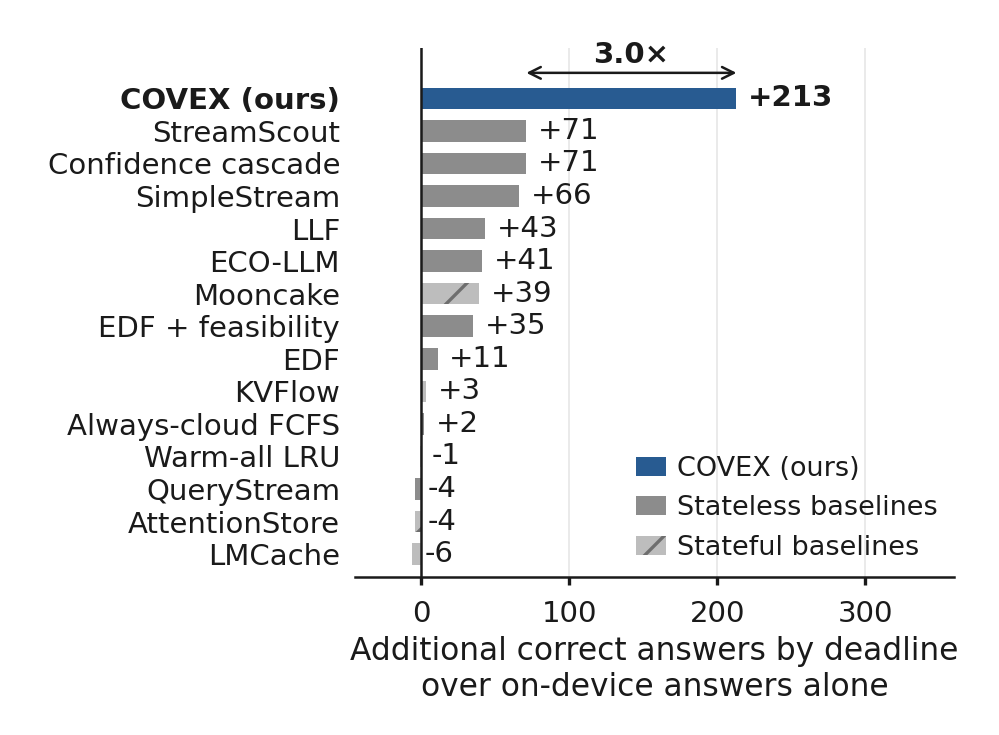
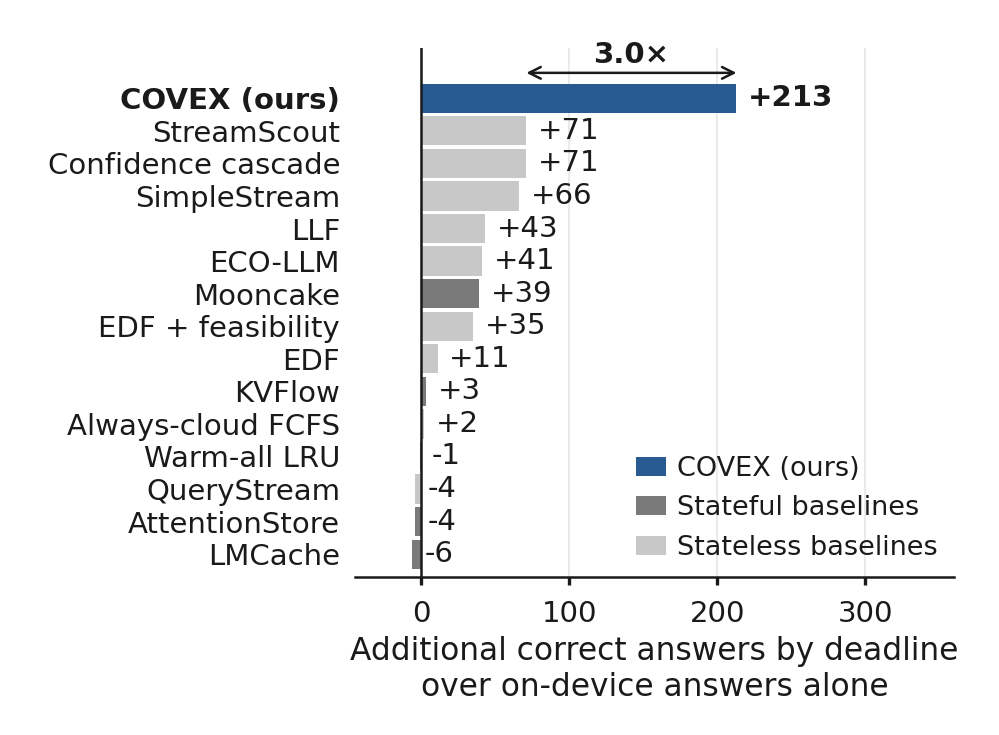
StudyFIG1: solid class fills, no hatch, vertical gap, legend order

diff --git a/experiments/analysis/figures/f01_intro_teaser.py b/experiments/analysis/figures/f01_intro_teaser.py
@@ -126,7 +126,7 @@ def render(out, rows, pooled_n):
             continue
     plt.rcParams["font.sans-serif"] = [fam]
     out["font"] = fam
-    C_COVEX, C_STATE, C_STATEFUL = "#285B91", "#8C8C8C", "#BDBDBD"
+    C_COVEX, C_STATE, C_STATEFUL = "#285B91", "#C8C8C8", "#7A7A7A"   # stateless light, stateful mid grey; no hatch
     INK, SEC, HATCH = "#1A1A1A", "#555555", "#6E6E6E"
     n = len(rows)
     fig = plt.figure(figsize=(3.33, 2.45))
@@ -134,12 +134,12 @@ def render(out, rows, pooled_n):
     ys = np.arange(n)[::-1]
     for y, r in zip(ys, rows):
         if r["class"] == "covex":
-            col, hatch, ec = C_COVEX, None, "none"
+            col, hatch, ec = C_COVEX, None, "white"
         elif r["class"] == "stateful":
-            col, hatch, ec = C_STATEFUL, "//", HATCH
+            col, hatch, ec = C_STATEFUL, None, "white"
         else:
-            col, hatch, ec = C_STATE, None, "none"
-        ax.barh(y, r["diff"], height=0.66, color=col, edgecolor=ec, hatch=hatch, linewidth=0.0)
+            col, hatch, ec = C_STATE, None, "white"
+        ax.barh(y, r["diff"], height=0.9, color=col, edgecolor="none", linewidth=0)   # 0.8 pt vertical gap from row pitch
         lo, hi = r["ci95"]
         # error bars removed (ruling: figure shows values only; paired CIs are in the rows JSON)
         label = f"{r['diff']:+d}".replace("+-", "-")
@@ -173,9 +173,8 @@ def render(out, rows, pooled_n):
     ax.text((cov["diff"] + base["diff"]) / 2, yA + 0.12, f"{ratio:.1f}\u00d7", ha="center", va="bottom",
             fontsize=7, color=INK, fontweight="bold")
     handles = [Patch(facecolor=C_COVEX, edgecolor="none", label="COVEX (ours)"),
-               Patch(facecolor=C_STATE, edgecolor="none", label="Stateless baselines"),
-               Patch(facecolor=C_STATEFUL, edgecolor=HATCH, hatch="//", linewidth=0,
-                     label="Stateful baselines")]
+               Patch(facecolor=C_STATEFUL, edgecolor="none", label="Stateful baselines"),
+               Patch(facecolor=C_STATE, edgecolor="none", label="Stateless baselines")]
     ax.legend(handles=handles, loc="lower right", frameon=False, fontsize=6.5, handlelength=1.1,
               handletextpad=0.4, borderaxespad=0.2, labelcolor=INK)
     fig.set_size_inches(3.33, 2.45)
